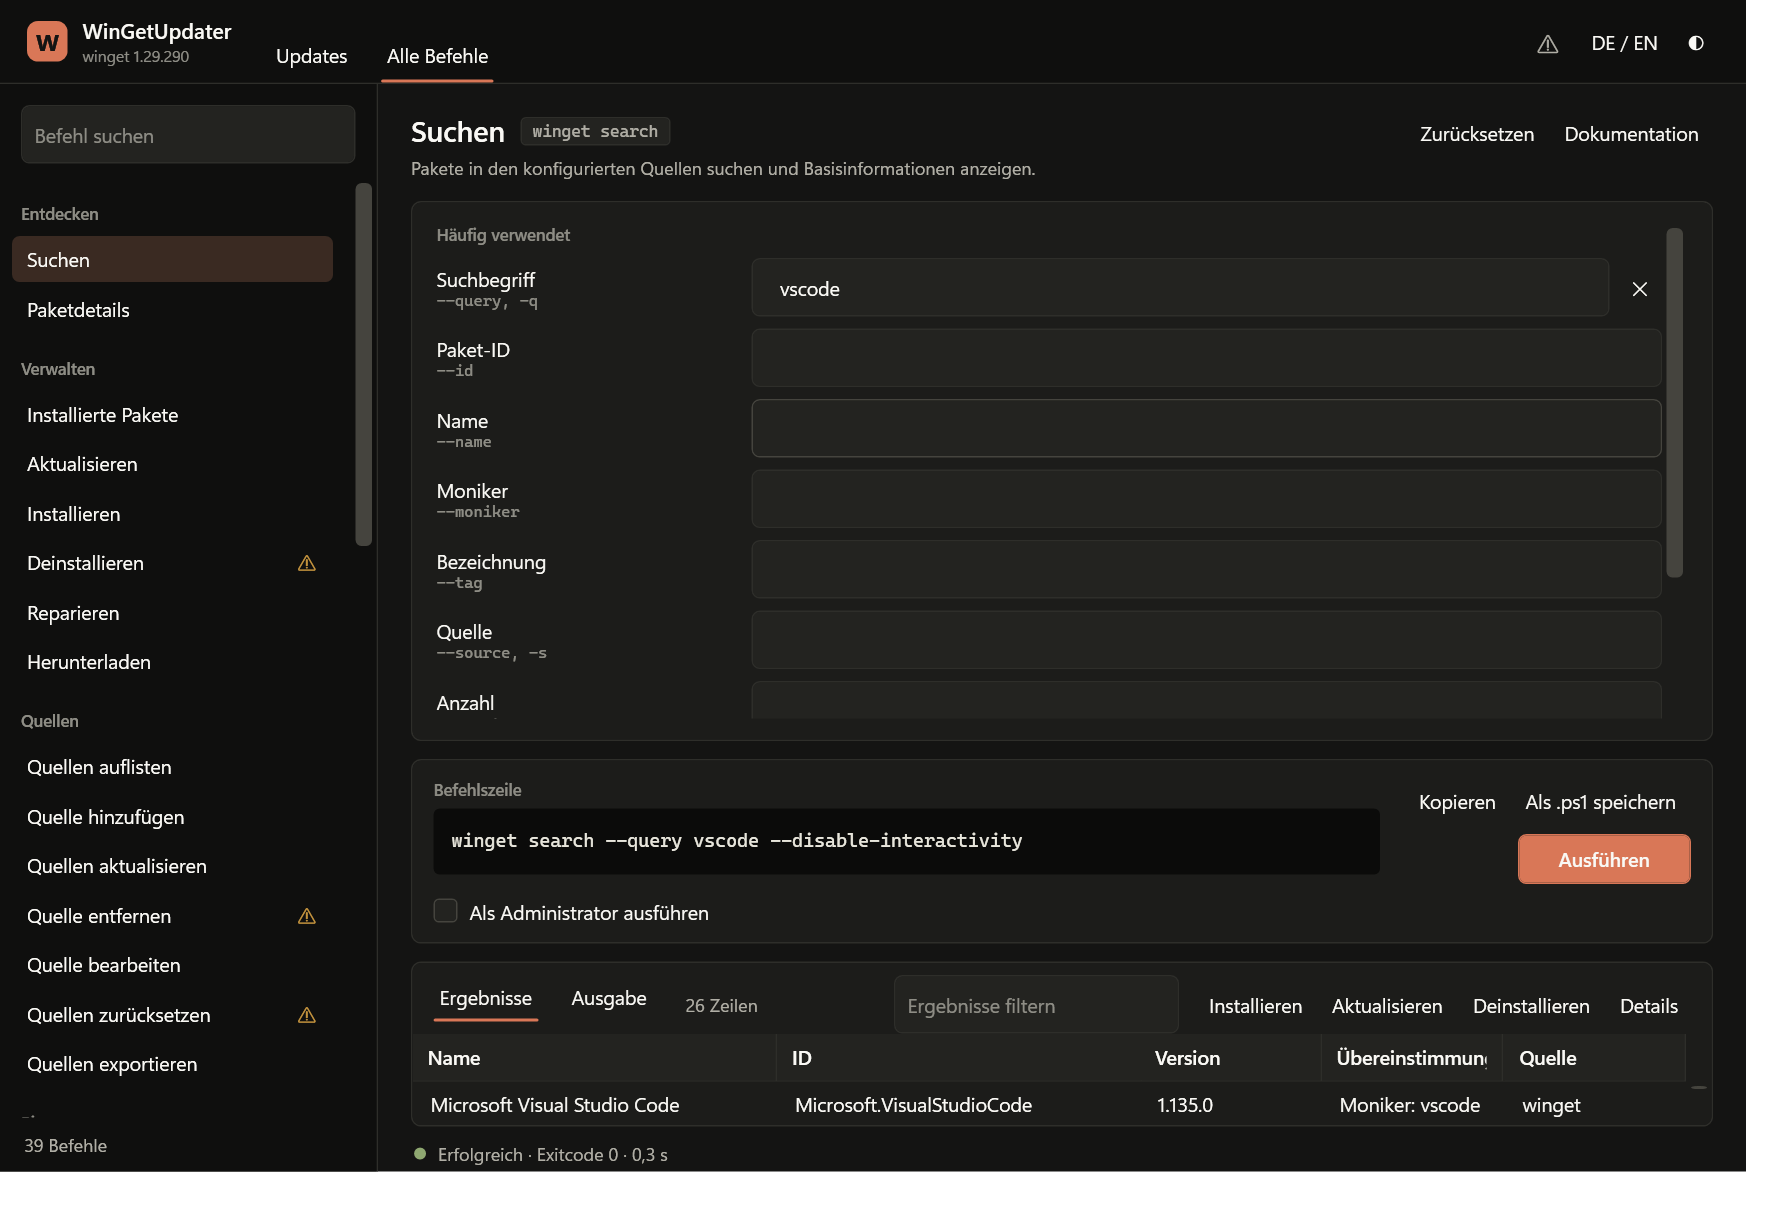
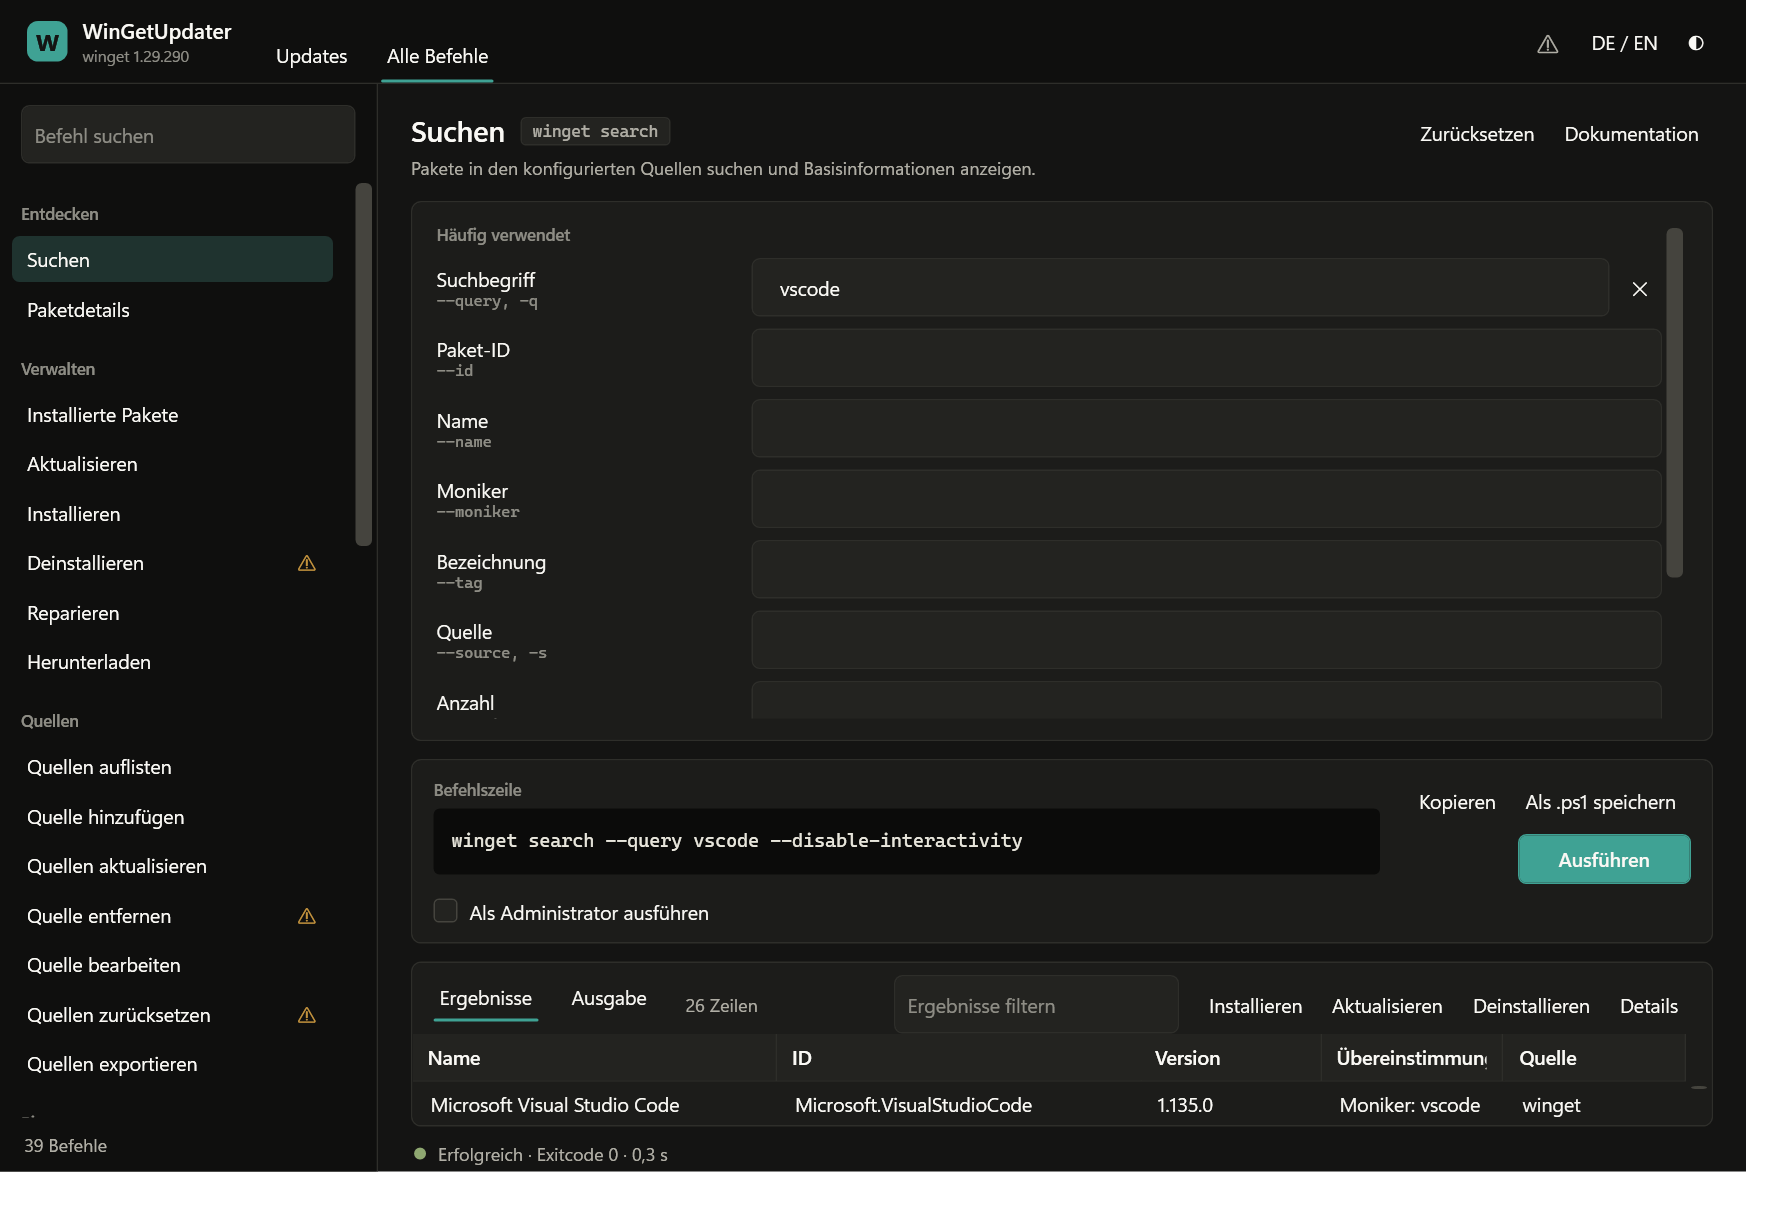
Akzent auf einen eigenen Ton
Der Akzent ist jetzt ein Blaugruen statt des zuvor uebernommenen Markenorange,
damit die Anwendung keine fremde Zugehoerigkeit nahelegt. Die warmen Neutraltoene
bleiben.

Der Akzent bekommt dabei je Design einen eigenen Wert: #3FA294 im dunklen,
#1C6E62 im hellen. Ein einzelner mittlerer Ton kann nicht gleichzeitig auf nahezu
weissem und auf nahezu schwarzem Grund 4,5:1 erreichen. Das deckte nebenbei eine
schon vorher bestehende Schwaeche auf - das Orange erreichte als Textfarbe auf
hellem Grund nur 2,84:1. Entsprechend kehrt sich Fg.OnAccent pro Design um.

Alle verwendeten Paarungen liegen jetzt ueber 4,5:1, einschliesslich des Akzents
als Textfarbe auf Karte und Konsole sowie der Zustandsfarben auf getoenten
Flaechen. Accent.Subtle im hellen Design wurde dafuer aufgehellt.

diff --git a/src/WinGetUpdater/Resources/Themes/Dark.xaml b/src/WinGetUpdater/Resources/Themes/Dark.xaml
@@ -3,19 +3,22 @@
                     xmlns:sys="clr-namespace:System;assembly=System.Runtime">
 
   <!--
-    Farbwelt nach den Anthropic-Markenrichtlinien.
+    Warme Neutraltoene mit eigenem Akzent.
 
-    Grundtoene: Dark #141413, Light #faf9f5, Mid Gray #b0aea5, Light Gray #e8e6dc.
-    Akzente:    Orange #d97757 (primaer), Blau #6a9bcc, Gruen #788c5d.
+    Grundflaeche und Schrift bleiben warm gehalten (nahezu Schwarz, gebrochenes Weiss,
+    dazu zwei Grautoene). Der Akzent ist bewusst ein eigener Ton - ein Blaugruen, das
+    zu den warmen Neutralen den Gegenpol bildet und die Anwendung keiner fremden
+    Marke zuordnet.
 
-    Zwei Festlegungen, die sich aus der Palette ergeben:
+    Drei Festlegungen, alle nachgemessen:
 
-    - Auf Orange steht dunkler Text, nicht weisser. #141413 auf #d97757 hat ein
-      Kontrastverhaeltnis von 5,9:1, Weiss nur 3,1:1 und faellt damit unter die
-      Lesbarkeitsschwelle.
-    - Orange ist als Aktionsfarbe belegt, deshalb kann es nicht zugleich Fehler
-      anzeigen. Fehler bekommen ein deutlich roteres Rot, Warnungen ein Gold.
-      Zusaetzlich unterscheiden sich beide durch Symbol und Text, nie nur durch Farbe.
+    - Der Akzent hat je Design einen eigenen Wert. Ein einzelner mittlerer Ton kann
+      nicht gleichzeitig auf hellem und auf dunklem Grund 4,5:1 erreichen; hier ist
+      er deshalb hell, in Light.xaml dunkel.
+    - Auf dem hellen Akzent steht dunkler Text (#141413 auf #3FA294: 6,0:1).
+    - Der Akzent ist als Aktionsfarbe belegt und bedeutet nie einen Zustand. Erfolg,
+      Warnung und Fehler haben eigene Farben - und zusaetzlich eigene Zeichen und
+      Texte, damit die Bedeutung nie allein an der Farbe haengt.
   -->
 
   <sys:String x:Key="Theme.Name">Dark</sys:String>
@@ -27,7 +30,7 @@
   <SolidColorBrush x:Key="Bg.Input"     Color="#232320" />
   <SolidColorBrush x:Key="Bg.Console"   Color="#0B0B0A" />
   <SolidColorBrush x:Key="Bg.Hover"     Color="#2A2A26" />
-  <SolidColorBrush x:Key="Bg.Selected"  Color="#3A2A22" />
+  <SolidColorBrush x:Key="Bg.Selected"  Color="#1F332F" />
 
   <SolidColorBrush x:Key="Border.Default" Color="#2E2E2A" />
   <SolidColorBrush x:Key="Border.Strong"  Color="#45443E" />
@@ -38,10 +41,10 @@
   <SolidColorBrush x:Key="Fg.OnAccent"  Color="#141413" />
   <SolidColorBrush x:Key="Fg.Console"   Color="#E8E6DC" />
 
-  <SolidColorBrush x:Key="Accent"        Color="#D97757" />
-  <SolidColorBrush x:Key="Accent.Hover"  Color="#E48F71" />
-  <SolidColorBrush x:Key="Accent.Press"  Color="#C05F40" />
-  <SolidColorBrush x:Key="Accent.Subtle" Color="#2E211B" />
+  <SolidColorBrush x:Key="Accent"        Color="#3FA294" />
+  <SolidColorBrush x:Key="Accent.Hover"  Color="#57B5A7" />
+  <SolidColorBrush x:Key="Accent.Press"  Color="#2E8B7D" />
+  <SolidColorBrush x:Key="Accent.Subtle" Color="#172623" />
 
   <SolidColorBrush x:Key="State.Ok"    Color="#8FA871" />
   <SolidColorBrush x:Key="State.Warn"  Color="#C9973F" />

diff --git a/src/WinGetUpdater/Resources/Themes/Light.xaml b/src/WinGetUpdater/Resources/Themes/Light.xaml
@@ -3,11 +3,14 @@
                     xmlns:sys="clr-namespace:System;assembly=System.Runtime">
 
   <!--
-    Helle Fassung derselben Markenpalette. Die Schluessel sind deckungsgleich mit
-    Dark.xaml; nur die Werte wechseln. Cream #faf9f5 traegt die Flaeche, #e8e6dc und
-    #b0aea5 die Linien, Orange bleibt die Aktionsfarbe.
+    Helle Fassung. Die Schluessel sind deckungsgleich mit Dark.xaml; nur die Werte wechseln.
 
-    Auf Orange steht auch hier dunkler Text - der Knopf sieht in beiden Designs gleich aus.
+    Zwei Werte kehren sich gegenueber dem dunklen Design bewusst um:
+
+    - Der Akzent ist hier dunkel (#1C6E62 statt #3FA294), weil ein heller Ton auf
+      gebrochenem Weiss keine 4,5:1 erreicht.
+    - Entsprechend traegt der Akzent hier helle Schrift, dort dunkle. Fg.OnAccent ist
+      deshalb pro Design verschieden; beide Fassungen liegen bei 5,8:1 bzw. 6,0:1.
   -->
 
   <sys:String x:Key="Theme.Name">Light</sys:String>
@@ -19,7 +22,7 @@
   <SolidColorBrush x:Key="Bg.Input"     Color="#FFFFFF" />
   <SolidColorBrush x:Key="Bg.Console"   Color="#FDFCF8" />
   <SolidColorBrush x:Key="Bg.Hover"     Color="#ECEAE0" />
-  <SolidColorBrush x:Key="Bg.Selected"  Color="#F6E4DC" />
+  <SolidColorBrush x:Key="Bg.Selected"  Color="#DCEBE7" />
 
   <SolidColorBrush x:Key="Border.Default" Color="#E8E6DC" />
   <SolidColorBrush x:Key="Border.Strong"  Color="#B0AEA5" />
@@ -27,13 +30,13 @@
   <SolidColorBrush x:Key="Fg.Primary"   Color="#141413" />
   <SolidColorBrush x:Key="Fg.Secondary" Color="#57564F" />
   <SolidColorBrush x:Key="Fg.Muted"     Color="#71706A" />
-  <SolidColorBrush x:Key="Fg.OnAccent"  Color="#141413" />
+  <SolidColorBrush x:Key="Fg.OnAccent"  Color="#FAF9F5" />
   <SolidColorBrush x:Key="Fg.Console"   Color="#24231F" />
 
-  <SolidColorBrush x:Key="Accent"        Color="#D97757" />
-  <SolidColorBrush x:Key="Accent.Hover"  Color="#C86544" />
-  <SolidColorBrush x:Key="Accent.Press"  Color="#B3543A" />
-  <SolidColorBrush x:Key="Accent.Subtle" Color="#F9ECE6" />
+  <SolidColorBrush x:Key="Accent"        Color="#1C6E62" />
+  <SolidColorBrush x:Key="Accent.Hover"  Color="#175C52" />
+  <SolidColorBrush x:Key="Accent.Press"  Color="#124B43" />
+  <SolidColorBrush x:Key="Accent.Subtle" Color="#EDF5F3" />
 
   <SolidColorBrush x:Key="State.Ok"    Color="#5F7148" />
   <SolidColorBrush x:Key="State.Warn"  Color="#8F661B" />

diff --git a/CLAUDE.md b/CLAUDE.md
@@ -172,21 +172,21 @@ requirement made testable.
 
   Fixtures that are *not* verbatim winget output must be built from column widths, never from
   hand-aligned literals — hand alignment silently rots.
-* **The palette follows the Anthropic brand guidelines** (`Dark.xaml` / `Light.xaml`), and three
-  rules fall out of it. Keep them when touching colours:
+* **Colour rules** (`Dark.xaml` / `Light.xaml`) — keep all four when touching the palette:
   - Both theme files must define the **same 26 keys**. A key defined in only one file leaves that
     brush unresolved after a theme switch.
-  - **Dark text on orange, never white.** `#141413` on `#D97757` is 5.9:1; white is 3.1:1 and
-    fails. That is why `Fg.OnAccent` is dark in *both* themes.
-  - Orange is the action colour, so it cannot also mean "error". Errors use a separate red and
-    warnings a gold — and every state additionally carries its own glyph (✓ / ✕ / ●) and wording,
-    so colour is never the sole signal. Red and orange are the classic colour-blindness pair;
-    the glyph is what actually carries the meaning.
-  - Every foreground/background pair in use clears 4.5:1. If you change a colour, re-measure
-    rather than eyeball it.
-* Poppins and Lora (the brand's typefaces) are **not** used: they are not installed on this
-  machine, and WPF cannot fetch webfonts, so the app would silently fall back to Arial/Georgia.
-  Segoe UI stays until the fonts are bundled with the app.
+  - **`Accent` deliberately has a different value per theme** — `#3FA294` dark, `#1C6E62` light.
+    No single mid tone can clear 4.5:1 against both a near-white and a near-black ground; that is
+    arithmetic, not taste. `Fg.OnAccent` flips with it (dark text on the light accent, light text
+    on the dark one). Do not "unify" these back into one value.
+  - The accent is the **action** colour and never signals state. Success, warning and error have
+    their own colours *and* their own glyph (✓ / ✕ / ●) and wording, so colour is never the sole
+    signal — that is what keeps it legible for colour-blind users.
+  - Every foreground/background pair in use clears 4.5:1, including accent-as-text on the card and
+    console grounds and the state colours on `Accent.Subtle`. If you change a colour, **measure**;
+    the eye is unreliable here, and two of these values were below the line on first attempt.
+* No custom typefaces. WPF cannot fetch webfonts, so anything not installed on the target machine
+  falls back silently — Segoe UI stays unless a font is bundled with the app.
 * **`winget.exe` is not reliably on PATH.** `WingetLocator` tries the App Execution Alias, then
   PATH, then globs `Microsoft.DesktopAppInstaller_*_8wekyb3d8bbwe` under WindowsApps. If none
   works the app shows an explanatory page instead of failing.

diff --git a/README.md b/README.md
@@ -178,23 +178,24 @@ Die Testdateien unter `tests\WinGetUpdater.Tests\Fixtures\` sind unveränderte O
 
 ### Die Farbwelt
 
-Die Palette folgt den Anthropic-Markenrichtlinien: Dark `#141413`, Cream `#faf9f5`,
-Mid Gray `#b0aea5`, Light Gray `#e8e6dc`, dazu Orange `#d97757` als Akzent sowie Blau und Grün.
-Drei Festlegungen ergeben sich daraus:
+Warme Neutraltöne — nahezu Schwarz `#141413`, gebrochenes Weiß `#faf9f5`, dazu zwei Grautöne —
+mit einem Blaugrün als Akzent. Drei Festlegungen, alle nachgemessen:
 
-* **Auf Orange steht dunkler Text, nicht weißer.** `#141413` auf `#d97757` erreicht 5,9:1,
-  Weiß nur 3,1:1 und fällt damit unter die Lesbarkeitsschwelle. Deshalb ist `Fg.OnAccent` in
-  beiden Designs dunkel.
-* **Orange ist die Aktionsfarbe und kann nicht zugleich Fehler bedeuten.** Fehler bekommen ein
-  eigenes Rot, Warnungen ein Gold — und jeder Zustand trägt zusätzlich sein eigenes Zeichen
-  (✓ / ✕ / ●) und einen Text. Rot und Orange sind das klassische Verwechslungspaar bei
-  Farbfehlsichtigkeit; die Bedeutung hängt deshalb nie an der Farbe allein.
-* **Jede verwendete Vordergrund-/Hintergrundpaarung erreicht mindestens 4,5:1.** Nachgemessen,
-  nicht geschätzt.
+* **Der Akzent hat je Design einen eigenen Wert:** `#3fa294` im dunklen, `#1c6e62` im hellen.
+  Ein einzelner mittlerer Ton kann nicht gleichzeitig auf nahezu weißem und auf nahezu schwarzem
+  Grund 4,5:1 erreichen — das ist Arithmetik, keine Geschmacksfrage. Entsprechend kehrt sich auch
+  die Schrift darauf um: dunkel auf dem hellen Akzent, hell auf dem dunklen.
+* **Der Akzent ist die Aktionsfarbe und bedeutet nie einen Zustand.** Erfolg, Warnung und Fehler
+  haben eigene Farben — und jeder Zustand trägt zusätzlich sein eigenes Zeichen (✓ / ✕ / ●) und
+  einen Text. Die Bedeutung hängt damit nie an der Farbe allein, was sie auch bei
+  Farbfehlsichtigkeit lesbar hält.
+* **Jede verwendete Vordergrund-/Hintergrundpaarung erreicht mindestens 4,5:1** — einschließlich
+  des Akzents als Textfarbe und der Zustandsfarben auf getönten Flächen. Nachgemessen, nicht
+  geschätzt: zwei Werte lagen im ersten Anlauf darunter.
 
-Die Schriften der Marke (Poppins, Lora) sind bewusst *nicht* übernommen: sie sind auf dem
-Zielsystem nicht installiert, und WPF kann keine Webschriften nachladen — die Oberfläche würde
-still auf Arial und Georgia zurückfallen. Es bleibt bei Segoe UI.
+Eigene Schriften kommen nicht zum Einsatz. WPF kann keine Webschriften nachladen; was auf dem
+Zielrechner fehlt, fällt still auf einen Ersatz zurück. Deshalb bleibt es bei Segoe UI, solange
+keine Schrift mit der Anwendung ausgeliefert wird.
 
 ### Die Rechteerhöhung
 
